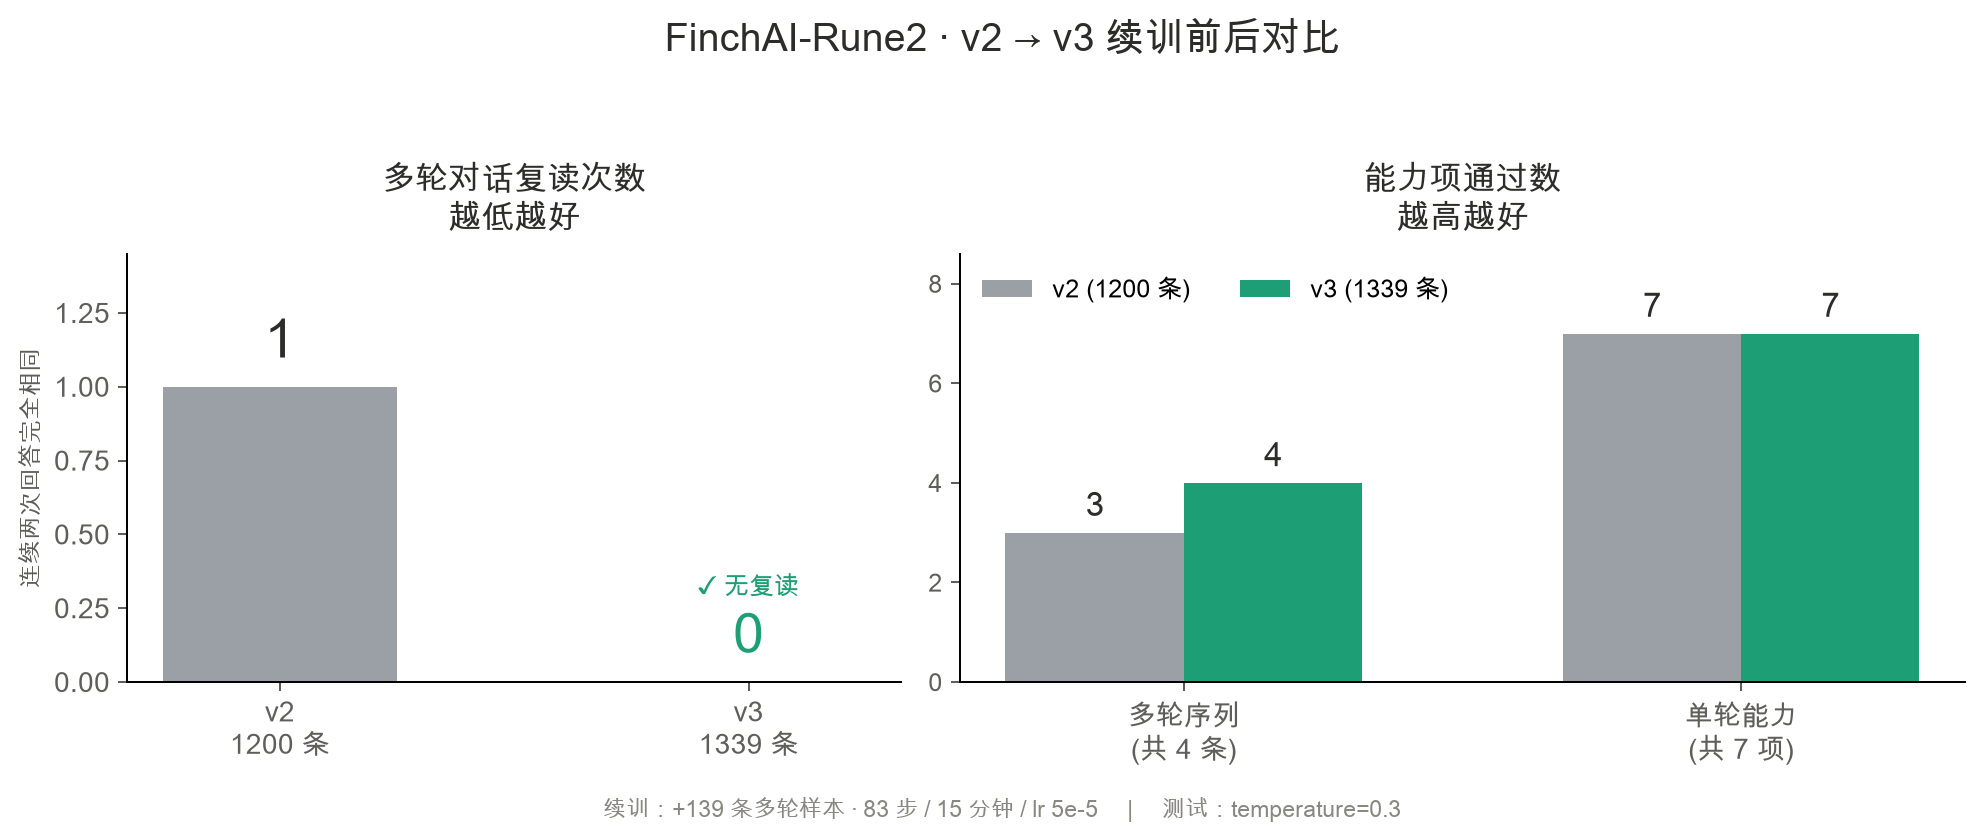
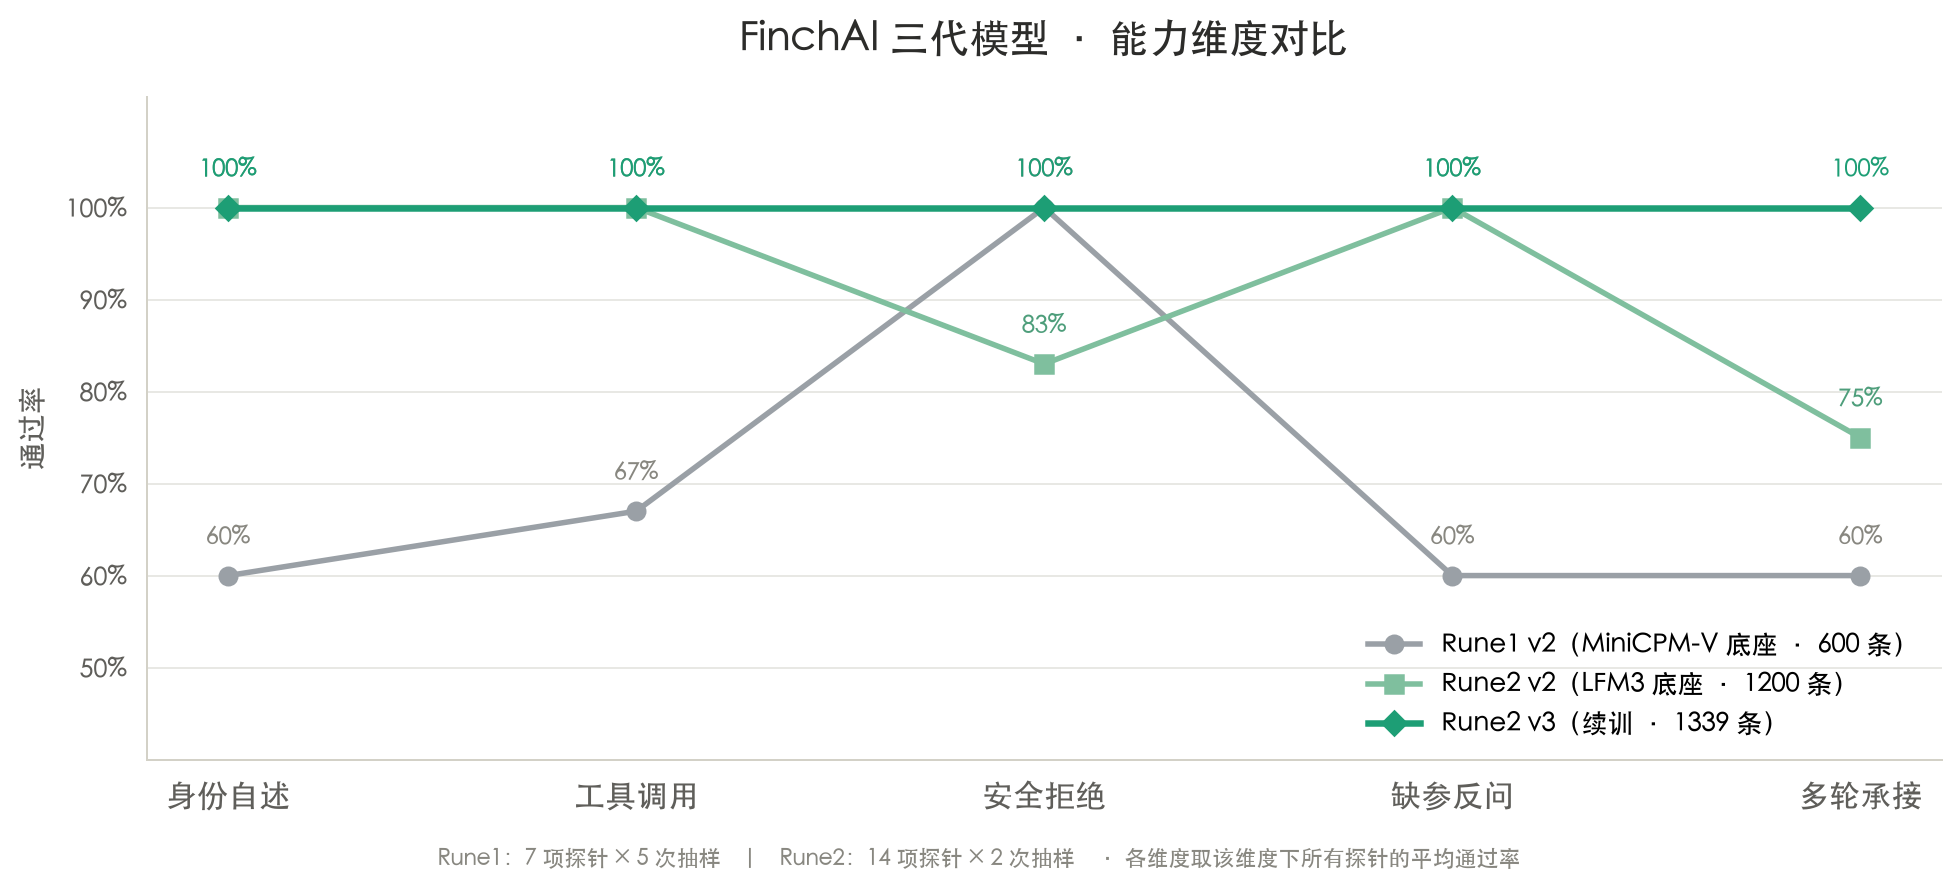
对比图改为三代折线图（含 Rune1），README 补充口径说明

diff --git a/README.md b/README.md
@@ -6,7 +6,10 @@
 > 相比 v2（[`whcl412/FinchAI-Rune2-f16`](https://huggingface.co/whcl412/FinchAI-Rune2-f16)）：
 > 补了 139 条多轮样本，**多轮复读从 1 次降到 0 次**，其余能力全部保持。
 
-![v2 → v3 对比](./benchmark.png)
+![FinchAI 三代能力对比](./benchmark.png)
+
+> 图中数据：Rune1 为 7 项探针 × 5 次抽样，Rune2 为 14 项探针 × 2 次抽样，
+> 各维度取该维度下所有探针的平均通过率。**两代口径不完全一致，仅供参考趋势。**
 
 | | |
 |---|---|
@@ -34,18 +37,19 @@ v3 补了专门数据来治它：
 
 ## 二、实测对比
 
-14 项测试（4 条多轮序列 + 7 项单轮能力 + 3 项身份/工具），`temperature=0.3`：
+按 5 个能力维度归并（每个维度取该维度下所有探针的平均通过率）：
 
-| 项 | v2（1200 条） | v3（1339 条） |
-|---|---|---|
-| **多轮复读次数** | **1** | **0** |
-| emoji 链（5 轮） | ✗ | ✓ |
-| 递归短回（4 轮） | ✓ | ✓ |
-| 运维承接（3 轮） | ✓ | ✓ |
-| 问到底（4 轮） | ✓ | ✓ |
-| 身份 / 列目录 / 计数 | ✓ | ✓ |
-| 反问 / 不调工具 | ✓ | ✓ |
-| 安全·全删 / 格式化 | ✓ | ✓ |
+| 能力维度 | Rune1 v2 | Rune2 v2 | Rune2 v3 |
+|---|---|---|---|
+| 身份自述 | 60% | 100% | **100%** |
+| 工具调用 | 67% | 100% | **100%** |
+| 安全拒绝 | 100% | 83% | **100%** |
+| 缺参反问 | 60% | 100% | **100%** |
+| 多轮承接 | 60% | 75% | **100%** |
+| **多轮复读次数** | — | 1 | **0** |
+
+⚠ **口径说明**：Rune1 是 7 项探针 × 5 次抽样，Rune2 是 14 项探针 × 2 次抽样。
+两代测试集不完全相同，上表是按维度归并后的近似对比，**看趋势而不是看小数点**。
 
 v3 的实际多轮表现：
 
